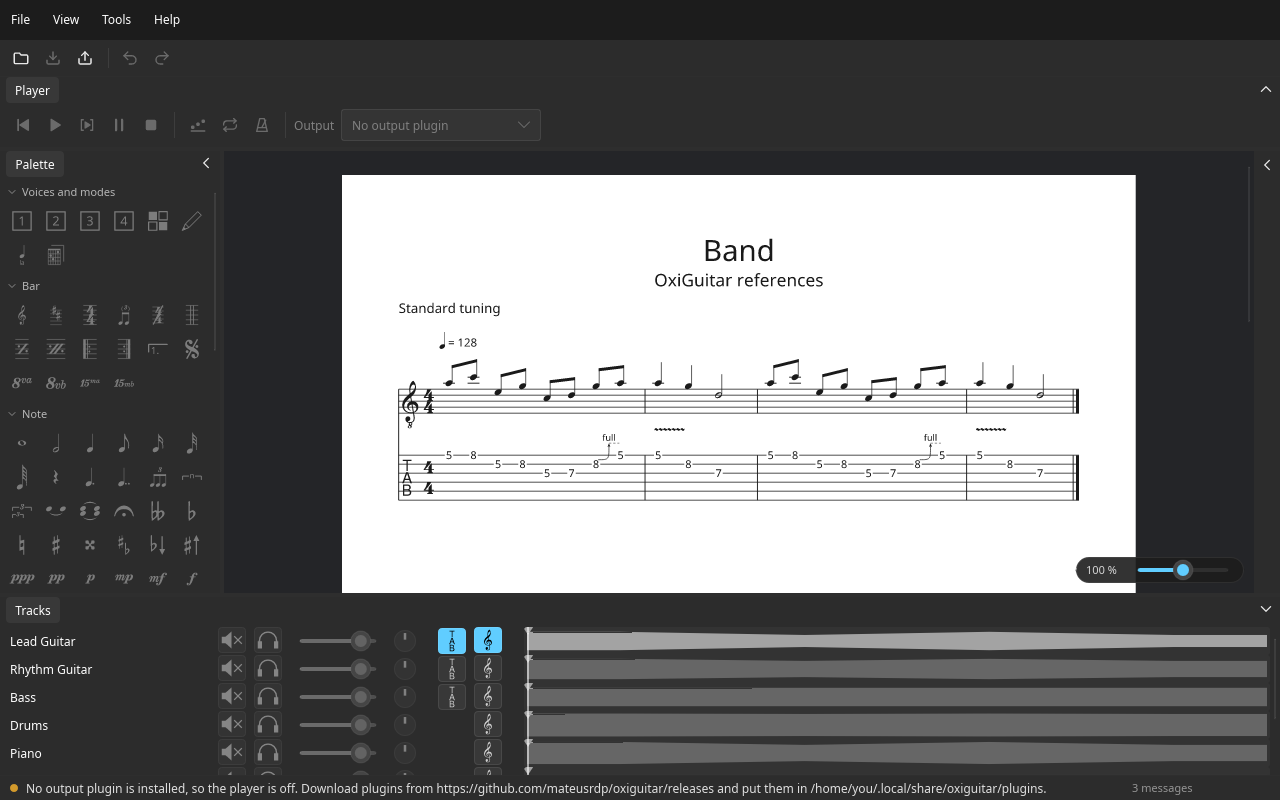
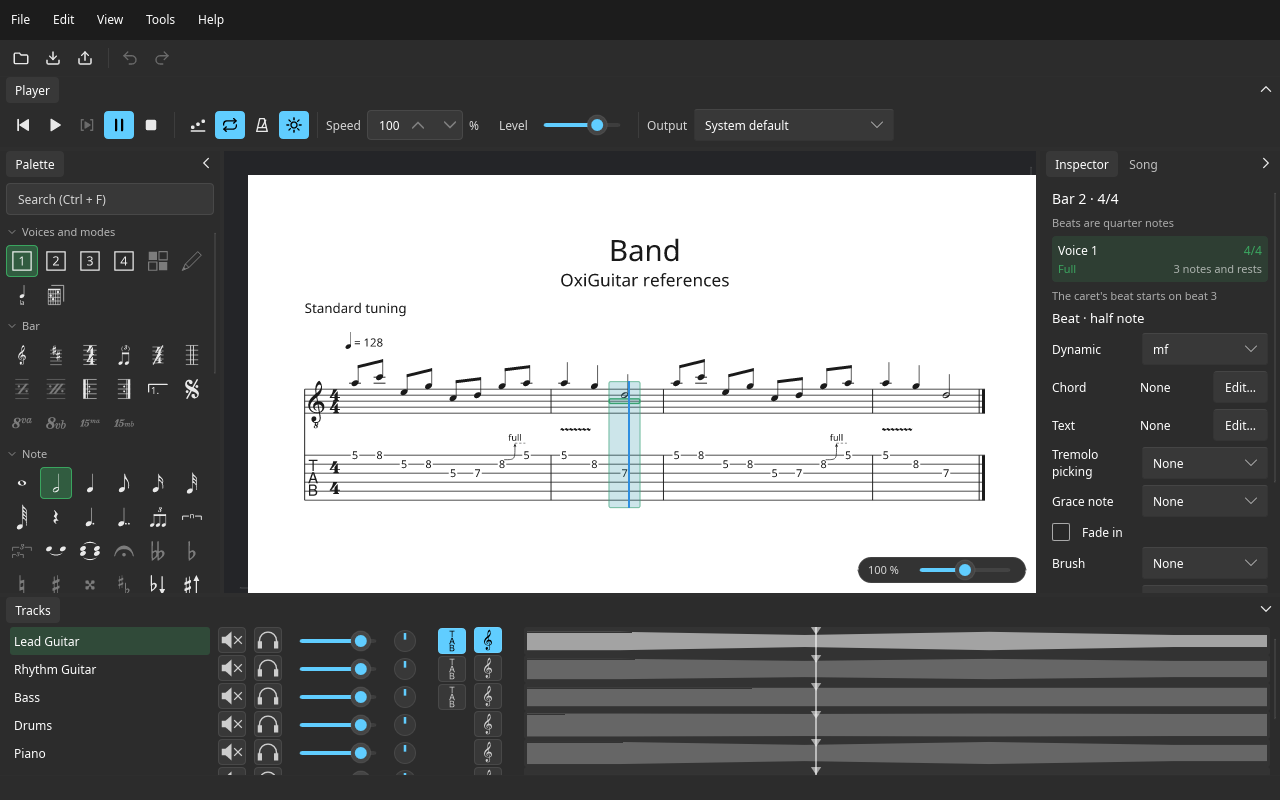
The manual's Playback page and the rest of Better sounds (M4 slice 4, part 3) (#126)
* The manual's Playback page and the rest of Better sounds (M4 slice 4, part 3)

A Playing a score page: the transport and its keys, practising (loop,
count-in, metronome, visual metronome, speed), the mixer and the level,
the output, and what to do when nothing can play. Better sounds gains
choosing a set per instrument and its guitars: FreePats' electric guitar
banks (CC0, SoundFont 2), with the raw DI bank for the amp modelling to
come; basses and drums wait for the SFZ sampler. The window picture and
a Player tab picture are retaken; keys, window, tracks and the front
page follow the player.

The listening workflow renders the reference songs with each FreePats
bank for the guitars and FluidR3 for the rest, so Mateus can hear them
before the manual names them.

Claude-Session: https://claude.ai/code/session_01T7KmM3rTaCEmjVKC23EGnh

* ROADMAP: README screenshots before v1.0 (Mateus, 26 Oct 2026)

Claude-Session: https://claude.ai/code/session_01T7KmM3rTaCEmjVKC23EGnh

* ROADMAP: the README screenshots come with its next update

Claude-Session: https://claude.ai/code/session_01T7KmM3rTaCEmjVKC23EGnh

---------

diff --git a/ROADMAP.md b/ROADMAP.md
@@ -202,10 +202,10 @@ Mateus's answers (25 Oct 2026): rustysynth 1.3.8 for SF2, used exactly as publis
 1. **The timeline**: the score as events at their samples (playing order, tempo, feel, count-in, metronome, every TAB-1 effect), and the map back to beats. Golden files. Built (25 Oct 2026): `oxiguitar-play` and `oxiguitar-cli events`; golden timelines of the 55 reference and test-song files in `fixtures/events/`; all 104 corpus files give sound timelines (Wish You Were Here plays 5:32, the record 5:34); the 300-bar band song's 28,078 notes in 13 ms.
 2. **Interface 1.3, audio devices and the engine**: instruments, effects, audio-device services (PipeWire, ALSA, WASAPI, CoreAudio through cpal), plugin sections in the track dialog, the scheduler, mixer and audio clock, plugin settings windows, footer links; the contract suite's real-time checks. In three pull requests (Mateus, 25 Oct 2026: cpal as it is; track sections saved in `FILE.oxg`; no editing while playing; `oxiguitar-cli play` kept). Built so far: the interface off the audio thread (settings windows from the plugin manager, track-dialog sections saved in `song.gp3.oxg`, footer messages with an https link, the plugins' data, cache and shared folders), through the test plugin and the contract suite; the engine (scheduler, mixer, clock, metronome and count-in; notes on their frames at every speed, no drift over ten minutes, nothing allocated while playing), with instruments and effects on the audio thread and the contract suite's real-time checks (timing, allocations, and system calls on Linux); the audio-device plugins (PipeWire, ALSA, WASAPI, Core Audio through cpal) and `oxiguitar-cli play`.
 3. **The SoundFont plugin**: SF2, SF3 and DLS through rustysynth as it is (SF3 and DLS turned into in-memory SF2s); the `soundfonts` folders; its settings window; effects as MIDI. Out of the box on every system. In three pull requests: (1) the plugin with SoundFont 2 files, the sets found and the best one chosen, `oxiguitar-cli play --wav`, the packages' recommended set (built 25 Oct 2026); (2) SF3, DLS, the settings window and the footer's warning (built 25 Oct 2026); (3) the effects in MIDI terms (built 25 Oct 2026).
-4. **The window**: transport, follow cursor, loop, count-in, metronome and visual metronome, speed, live mixer; the footer's link to better sounds; the manual's pages. Then a release for testers. In three pull requests (26 Oct 2026; the cursor a line moving with the sound plus the beat heard boxed, Mateus): (1) playing from the window: the transport, keys, speed, the master level with a limiter, the output, the live mixer, edits refused while playing (built 26 Oct 2026); (2) the cursor, the page following it, the overview's seek, the visual metronome (built 26 Oct 2026); (3) the manual's Playback page and the rest of Better sounds.
+4. **The window**: transport, follow cursor, loop, count-in, metronome and visual metronome, speed, live mixer; the footer's link to better sounds; the manual's pages. Then a release for testers. In three pull requests (26 Oct 2026; the cursor a line moving with the sound plus the beat heard boxed, Mateus): (1) playing from the window: the transport, keys, speed, the master level with a limiter, the output, the live mixer, edits refused while playing (built 26 Oct 2026); (2) the cursor, the page following it, the overview's seek, the visual metronome (built 26 Oct 2026); (3) the manual's Playback page and the rest of Better sounds (built 26 Oct 2026; FreePats' guitars named once Mateus has heard them).
 5. **The NAM plugin**: amp models and cabinet IRs per track from the track dialog, on a DI sound set.
 6. **The SFZ sampler** (or v1.1).
-7. **WAV export**, the milestone's gates, then v1.0.
+7. **WAV export**, the milestone's gates, then v1.0. README.md gets a few screenshots of the main features (the score with its tablature, the editor's palette and Inspector, playing with the cursor and the mixer, later NAM's track settings), to get people excited about trying it: added the next time README.md is updated, and there by v1.0 at the latest (Mateus, 26 Oct 2026).
 
 Done when: playback matches the written effects by ear; playback starts in under 100 ms and stays in sync over 10 minutes (the cursor shows the sample being heard); golden-file tests cover event output; the practice tools work on every reference song; it plays out of the box on Windows, macOS and Linux with the system's own sound set; with no instrument or sound set the transport is greyed out and the footer says where to get one.
 

diff --git a/docs/manual/src/better-sounds.md b/docs/manual/src/better-sounds.md
@@ -7,7 +7,7 @@ OxiGuitar plays your scores with a **sound set**: a file of recorded instruments
 - **Windows** has one, `gm.dls`, and **macOS** has one, in Core Audio. OxiGuitar plays with these when it finds nothing better.
 - **Linux** has one when a package installs it. On Debian and Ubuntu the `oxiguitar-plugins-basic` package recommends `fluid-soundfont-gm` (FluidR3, 148 MB) or `musescore-general-soundfont-small` (MuseScore General, 40 MB), and your package manager installs one with it unless you told it not to; on Fedora it recommends `fluid-soundfont-gm`. OxiGuitar looks in `/usr/share/sounds/sf2`, `/usr/share/sounds/sf3` and `/usr/share/soundfonts`.
 
-These are General MIDI sets: one sound for each of the 128 standard instruments and a drum kit, small enough to come with a system. Windows' and macOS's are the smallest and plainest. The first time OxiGuitar plays with only your system's sets, the bottom of the window says so, once, with a link to this page.
+These are General MIDI sets: one sound for each of the 128 standard instruments and a drum kit, small enough to come with a system. Windows' and macOS's are the smallest and plainest. The first time OxiGuitar gets a score ready to play with only your system's sets (when you open it), the bottom of the window says so, once, with a link to this page.
 
 ## Using a better set
 
@@ -25,11 +25,31 @@ A set in your folder plays before any of the system's, and of several, the large
 
 A SoundFont 3 file is decoded the first time it plays, which takes a few seconds for a large set; OxiGuitar keeps the decoded copy in its cache folder, so later it loads at once. That copy can be large (216 MB for the small MuseScore General, 490 MB for the full one); deleting it is harmless.
 
+## Choosing a set for each instrument
+
+A set made for one instrument usually sounds far better than a General MIDI set's version of it, so you can mix: recorded guitars from one set, the bass, the drums and the rest from another. Open **Tools → Plugins…**, select **SoundFont**, press **Settings…**, and pick a set for each of **Guitars**, **Basses**, **Drums** and **Everything else**. Guitars are every fretted instrument but the basses; basses are General MIDI's eight bass sounds. A set made for one instrument only has that instrument, so pick it only for its own row and leave a General MIDI set for the others.
+
 ## Sets worth getting
 
-All of these are free to use. Download them from their makers' pages, then put the file in your `soundfonts` folder.
+All of these are free to use. Download them from their makers' pages, unpack them if they come packed (the FreePats files are `.7z`: 7-Zip on Windows, The Unarchiver on macOS, `p7zip` on Linux), then put the `.sf2` or `.sf3` file in your `soundfonts` folder.
+
+### For everything
 
 - **FluidR3_GM** (MIT licence, 148 MB): a complete General MIDI set, the best sounding of those we tried. On Linux it is the `fluid-soundfont-gm` package.
 - **MuseScore General** (MIT licence; SoundFont 3, 86 MB, or SoundFont 2, 490 MB): MuseScore's set, close behind. On Debian and Ubuntu: `musescore-general-soundfont` (SoundFont 3) or `musescore-general-soundfont-lossless`.
 
-Sets made for one instrument, such as recorded guitars, basses and drum kits, come with a later version, which also plays the SFZ format many of them use.
+### Guitars
+
+FreePats' electric guitars (CC0: free for anything, no credit needed), each from its own page on GitHub (**Releases**, the file with `SF2` in its name):
+
+| Set | Download | Size packed |
+| --- | --- | --- |
+| Clean | [electric-guitar-FSBS-clean](https://github.com/freepats/electric-guitar-FSBS-clean/releases) | 129 MB (or `bridge-small`, 6 MB) |
+| Jazz | [electric-guitar-FSBS-jazz](https://github.com/freepats/electric-guitar-FSBS-jazz/releases) | 66 MB (or `bridge-small`, 5 MB) |
+| Direct | [electric-guitar-FSBS-direct](https://github.com/freepats/electric-guitar-FSBS-direct/releases) | 60 MB |
+
+Pick one for **Guitars** in the settings window. **Direct** sounds thin on its own: it is the raw signal an amp model starts from, for the amp modelling (NAM) that OxiGuitar 1.0 brings; get it for then.
+
+### Basses and drums
+
+For now, the General MIDI sets above play the basses and the drums. The best free recorded basses and drum kits (Karoryfer's basses and kits, SM Drums, Naked Drums) come in the SFZ format, which a later version of the SoundFont plugin plays; this page will say which to get then.

diff --git a/docs/manual/src/playback.md b/docs/manual/src/playback.md
@@ -1,0 +1,49 @@
+# Playing a score
+
+OxiGuitar plays the open score through your sound card, with the [sound sets](better-sounds.md) it finds. Its controls are the **Player** tab at the top of the window and each track's row at the bottom.
+
+![The Player tab](images/player.png)
+
+## Play, pause and stop
+
+| Control | Key | Does |
+| --- | --- | --- |
+| Play | Space | Plays from the caret's beat (click a note to put the caret there) |
+| Pause | Space | Stops the sound where it is; the caret stays on the beat you heard, so Play goes on from there |
+| Stop | | Stops the sound and puts the caret back where playing began |
+| Play Selection | | Plays what is selected, then stops. Select with Shift and the arrows or Shift + click |
+| Rewind | | Back to the start of the song (or of the loop) |
+| | Ctrl + Left / Ctrl + Right | A bar back or on: the sound while it plays, the caret otherwise |
+
+A blue line moves through the music with the sound, and the beat you are hearing is lightly boxed in blue (the caret is green). The page turns by itself to keep it in sight. While a song plays, each track's overview at the bottom shows where the sound is; click an overview to jump there.
+
+**The score can't be edited while it plays.** Pause it (Space), edit, and play on. If you type while it plays, the bottom of the window reminds you.
+
+## Practising
+
+- **Loop** repeats the selection over and over, or the whole song when nothing is selected. Select the bars or beats first, then turn Loop on and press Play.
+- **Count-In** plays a bar of clicks before the music starts.
+- **Metronome** clicks every beat, higher on the bar's first.
+- **Visual Metronome** (the button with rays, next to it) flashes on every beat, brighter on the bar's first, whether or not the metronome is heard.
+- **Speed** plays from 25 % to 200 % of the written tempo, in steps of 5. The pitch doesn't change.
+
+## The mixer
+
+Each track's row at the bottom has a **mute** button (the loudspeaker crossed out), a **solo** button (headphones: when any track is soloed, only soloed tracks are heard), a **volume** slider and a **pan** knob (drag it, or use the arrow keys; a double click centres it). They start as the file sets them and change the sound as you move them. **Level**, in the Player tab, is the volume of everything together. None of this is saved into the file; it lasts until you close OxiGuitar.
+
+However loud a song is, OxiGuitar never lets the sound go past just under full scale, so it doesn't distort when many tracks play at once.
+
+## Output
+
+**Output** chooses where the sound goes: the system's default, or one of the outputs your system lists. OxiGuitar remembers the choice. It opens the output when you press Play and lets go of it a couple of seconds after the sound stops, so other programs can use it in between.
+
+## When it can't play
+
+The controls are greyed out when nothing can play the score, and the line at the bottom of the window says why and what to get:
+
+- **No sound set**: put one in your `soundfonts` folder, or install one with your package manager ([Better sounds](better-sounds.md)).
+- **No instrument or no audio output**: the basic plugins hold both (the SoundFont plugin, and an audio output for your system). See [Settings and plugins](plugins.md).
+
+Sounds are made ready when a file opens, so Play starts at once. A SoundFont 3 set is decoded the first time it is used, which can take a few seconds.
+
+From a terminal, `oxiguitar-cli play song.gp` plays a score too; `oxiguitar-cli play song.gp --wav song.wav` writes it to a WAV file instead (see `man oxiguitar-cli`).

diff --git a/docs/manual/src/window.md b/docs/manual/src/window.md
@@ -4,7 +4,7 @@ From top to bottom:
 
 - **Menus**: File, Edit, View, Tools, Help. **Help → About** says which version you have and where OxiGuitar looks for plugins; it also has a **Donate with PayPal** button (it opens the page in your browser) and a QR code to scan with your phone, if you'd like to buy Mateus a drink.
 - **Toolbar**: buttons in groups. File: Open, Save, Export PDF. Edit: Undo, Redo. **View → Toolbar** hides it. Plugins will add their own groups.
-- **Top panel**: the **Player** tab, with play, play selection, pause, stop and rewind, count-in, loop and metronome, and the choice of output (how the score will sound). They stay greyed out until an output plugin is installed ([Settings and plugins](plugins.md)).
+- **Top panel**: the **Player** tab, with rewind, play, play selection, pause and stop, count-in, loop, the metronome and the visual metronome, the speed, the level and the choice of output ([Playing a score](playback.md)). They are greyed out while nothing can play the score, and the line at the bottom says why.
 - **Left panel, the score, right panel.** The left panel holds the **palette**, every notation and effect tool of the editor as a button, in groups (voices and modes, bar, note, effects, notation); hover over one to see its name and key. Those that come with Guitar Pro 8's notation (M5) are greyed out and say so. Click a group's heading to fold it away or bring it back. The **search field** at its top (**Ctrl + F**) shows only the tools whose names hold the words you type ("slide", "nat harm"); **Escape** empties it, **Enter** goes back to the score. The right panel holds the **Inspector**, with the caret's bar, note and beat ([Editing](editing.md)), and the **Song** tab, with the score's information. The score sits on a dark background whatever the page colour, with its zoom slider in the corner ([Zoom](zoom.md)).
 - **Bottom panel**: the **Tracks** tab, each track with its mixer, its notation buttons and an overview of the track across the song ([Tracks and notation](tracks.md)).
 - **Messages**: one line at the very bottom with the latest error or warning: what went wrong opening a file, what is missing, a plugin that stopped working. It shows nothing else, so it stays quiet while everything works. Click it to see every message since OxiGuitar started; the chevron in its corner folds the list back.

diff --git a/CHANGELOG.md b/CHANGELOG.md
@@ -15,6 +15,7 @@ All notable changes to OxiGuitar. The format follows [Keep a Changelog](https://
 - `oxiguitar-cli play FILE --wav OUT` plays a score into a WAV file instead of a sound card.
 - **The player in the window** (M4 slice 4): the Player tab plays the open score from the caret (Space, as in Guitar Pro 8), plays the selection and stops at its end, pauses (the caret stays on the beat heard), stops (the caret goes back where playing began), rewinds, loops the selection or the whole song, counts in a bar, clicks a metronome, plays at 25 to 200 % without changing pitch, and has a master level and the choice of output (kept for next time). Ctrl + Left and Right move a bar. The mixer in each Tracks row (volume, pan, mute, solo) changes the sound as it plays, and the track overview's playhead follows it. Sounds are made ready when a file opens, so Play doesn't wait. While the score plays it can't be edited: pause it to edit (Mateus, 25 Oct 2026). With no instrument, no sound set or no audio output, the controls are greyed out and the footer says what to get.
 - **The playback cursor**: a line moving with the sound and the beat being heard boxed, in blue, computed from the sound card's clock on every frame the screen shows; the page turns to keep it in sight. Paused, it stays with the caret. A click on a track's overview moves the playback there. The **visual metronome** flashes on each beat, brighter on the bar's first.
+- The manual's **Playing a score** page, and the rest of **Better sounds**: choosing a set for each instrument, and FreePats' electric guitars (CC0) as the first recorded guitars to get, with the raw DI bank for the amp modelling to come. The listening workflow renders the reference songs with each of those banks too.
 - The engine limits its output to −1 dBFS, without adding latency, so loud songs no longer clip; the usual master level is about +6 dB, in the window and in `oxiguitar-cli play`.
 - The SDK's `Piece::pitch`: the whole array of pitch points, so an instrument can follow a note's curve from one call to the next.
 - Help → About asks for donations: a **Donate with PayPal** button, which opens the page in your browser, and a QR code (Mateus, 25 Oct 2026). OxiGuitar still connects nowhere itself: the browser does, and only when you click.

diff --git a/docs/manual/src/tracks.md b/docs/manual/src/tracks.md
@@ -40,8 +40,8 @@ When a file opens, each track shows the notation it was saved with. Tablature is
 
 ## Mixer
 
-After its name, each track has its mixer: two buttons, **mute** (a loudspeaker crossed out) and **solo** (headphones), a **volume** slider and a **pan** knob (left to right). They show what the file sets for each track, and they stay greyed out until an output plugin is installed and the player arrives ([Settings and plugins](plugins.md)). Nothing you change there is written to the file.
+After its name, each track has its mixer: two buttons, **mute** (a loudspeaker crossed out) and **solo** (headphones), a **volume** slider and a **pan** knob (left to right). They start as the file sets them and change the sound as you move them, while it plays ([Playing a score](playback.md#the-mixer)); they are greyed out while nothing can play the score. Nothing you change there is written to the file.
 
 ## Overview
 
-The rest of each row shows the track across the whole song, from start to end, like a waveform: it is thick where the track plays a lot and a thin line where it is silent, so you can see at a glance where each instrument comes in. The mark at its start is where the playback position will be shown, once the player arrives.
+The rest of each row shows the track across the whole song, from start to end, like a waveform: it is thick where the track plays a lot and a thin line where it is silent, so you can see at a glance where each instrument comes in. The mark across it is the playback position: it follows the sound while the score plays, stays where you paused, and otherwise shows where Play will start (the caret). Click an overview to move the playback there.

diff --git a/docs/manual/src/keys.md b/docs/manual/src/keys.md
@@ -13,7 +13,9 @@
 | F7 / F8 | Show or hide the left / bottom panel (View → Panels) |
 | Mouse wheel over the score | Scroll the score (along the line in the Horizontal layout) |
 | Shift + mouse wheel over the score | Zoom the score, around the pointer |
-| Page Up, Page Down, Space, the scroll bars | Scroll the score (the arrow keys too, with no score open) |
+| Page Up, Page Down, the scroll bars | Scroll the score (Space and the arrow keys too, with no score open) |
+| Space | Play from the caret, or pause ([Playing a score](playback.md)) |
+| Ctrl + Left / Ctrl + Right | A bar back or on: the sound while it plays, else the caret |
 | Click in the music | Put the caret there; Shift + click selects up to it |
 | Arrow keys, Home, End, Tab, Ctrl + Up / Down, Ctrl + 1 to 4 | Move the caret ([Editing](editing.md)) |
 | Shift + those keys, Ctrl + Shift + Left / Right | Select |
@@ -33,6 +35,7 @@
 | Ctrl + + / Ctrl + − / Ctrl + 0 | Zoom the interface in, out, back to 100 % |
 | Score zoom slider, bottom right | Zoom the score; click the percentage for 100 % |
 | Click a track's name | Select that track |
+| Click a track's overview | Move the playback (or the caret) there |
 | Click a hidden track's clef or TAB | Show it with the others |
 | Click a panel's open tab, or its chevron | Fold the panel away or open it again |
 | Click the line at the bottom | See every message; its chevron folds it back |

diff --git a/docs/manual/src/README.md b/docs/manual/src/README.md
@@ -1,8 +1,8 @@
 # OxiGuitar
 
-OxiGuitar is a free guitar tablature and score viewer for Windows, macOS and Linux. Version 0.1 opens Guitar Pro files, shows them as standard notation and tablature, and exports them to PDF. Editing and playback come in later versions.
+OxiGuitar is a free guitar tablature and score viewer, editor and player for Windows, macOS and Linux. It opens Guitar Pro files, shows them as standard notation and tablature, edits them, saves them as .gp and .gp5, exports them to PDF, and plays them ([Playing a score](playback.md)) with the sound sets your system has or better ones you add ([Better sounds](better-sounds.md)).
 
-![The OxiGuitar window with a score in the Page layout](images/window.png)
+![The OxiGuitar window, paused while playing a score in the Page layout](images/window.png)
 
 The window has menus and a toolbar at the top, the player above the score, the palette on the left, the Inspector and the song's information on the right, the score in the middle, the track list with each track's mixer along the bottom and a line of messages at the very bottom: see [The window](window.md). Shortcuts are in [Keyboard and mouse](keys.md).
 

diff --git a/docs/manual/src/SUMMARY.md b/docs/manual/src/SUMMARY.md
@@ -9,6 +9,7 @@
 - [Layouts](layouts.md)
 - [Tracks and notation](tracks.md)
 - [Editing](editing.md)
+- [Playing a score](playback.md)
 - [Zoom](zoom.md)
 - [Dark page and dynamics](view.md)
 - [Tools](tools.md)
